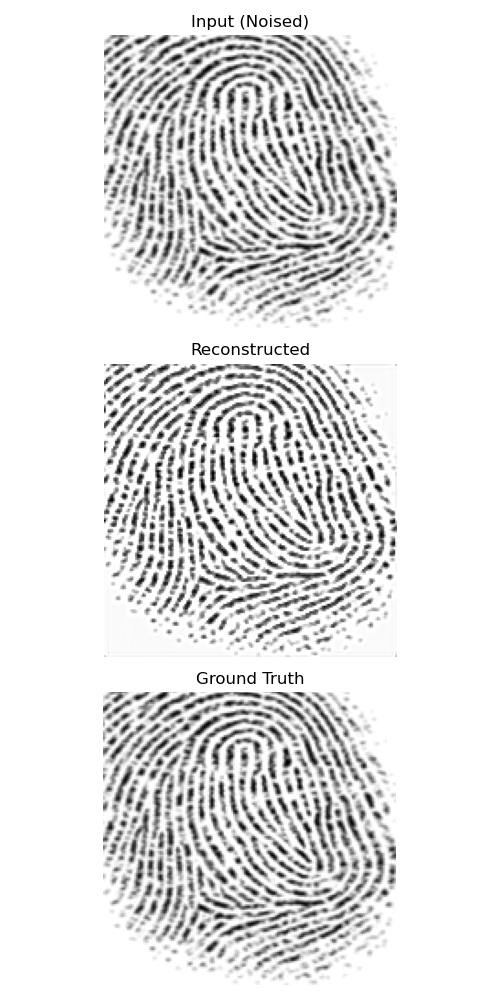
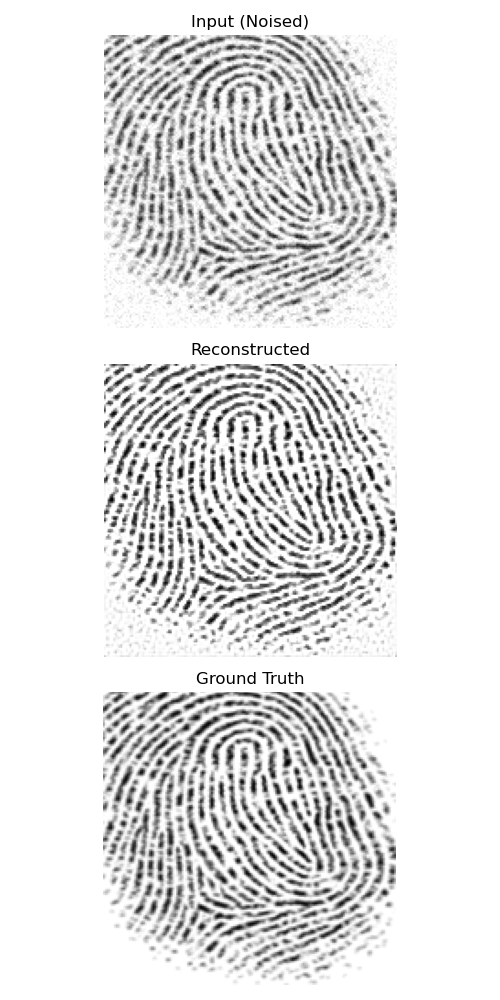
Try noisy fingerprint

diff --git a/main.py b/main.py
@@ -31,19 +31,19 @@ print(y.shape)
 
 X_train, X_test, y_train, y_test = train_test_split(x, y, test_size=0.1)
 
-history = model.fit(
-    X_train, y_train,
-    epochs=5,
-    batch_size=2,
-    validation_data=(X_test, y_test)
-)
-model.save('model.h5')
+# history = model.fit(
+#     X_train, y_train,
+#     epochs=5,
+#     batch_size=2,
+#     validation_data=(X_test, y_test)
+# )
+# model.save('model.h5')
 
-plt.plot(history.history['loss'], label='Train Loss')
-plt.plot(history.history['val_loss'], label='Validation Loss')
-plt.legend()
-plt.savefig('train_loss.png')
-plt.close('all')
+# plt.plot(history.history['loss'], label='Train Loss')
+# plt.plot(history.history['val_loss'], label='Validation Loss')
+# plt.legend()
+# plt.savefig('train_loss.png')
+# plt.close('all')
 
 
 # 加載模型
@@ -69,8 +69,8 @@ processed_image = np.expand_dims(processed_image, axis=(0, -1))  # Shape: (1, 16
 # processed_image = enhance_fingerprints(processed_image)
 # processed_image[0, :, :, 0] = sharpen(processed_image[0, :, :, 0])
 # 預測
-# noised_img = np.clip(processed_image + np.random.normal(0, 0.05, processed_image.shape), 0., 1.)
-noised_img = processed_image
+noised_img = np.clip(processed_image + np.random.normal(0, 0.05, processed_image.shape), 0., 1.)
+# noised_img = processed_image
 reconstructed_image = load_trained.predict(noised_img)
 reconstructed_image[0, :, :, 0] = sharpen(reconstructed_image[0, :, :, 0])
 # 將圖片可視化
